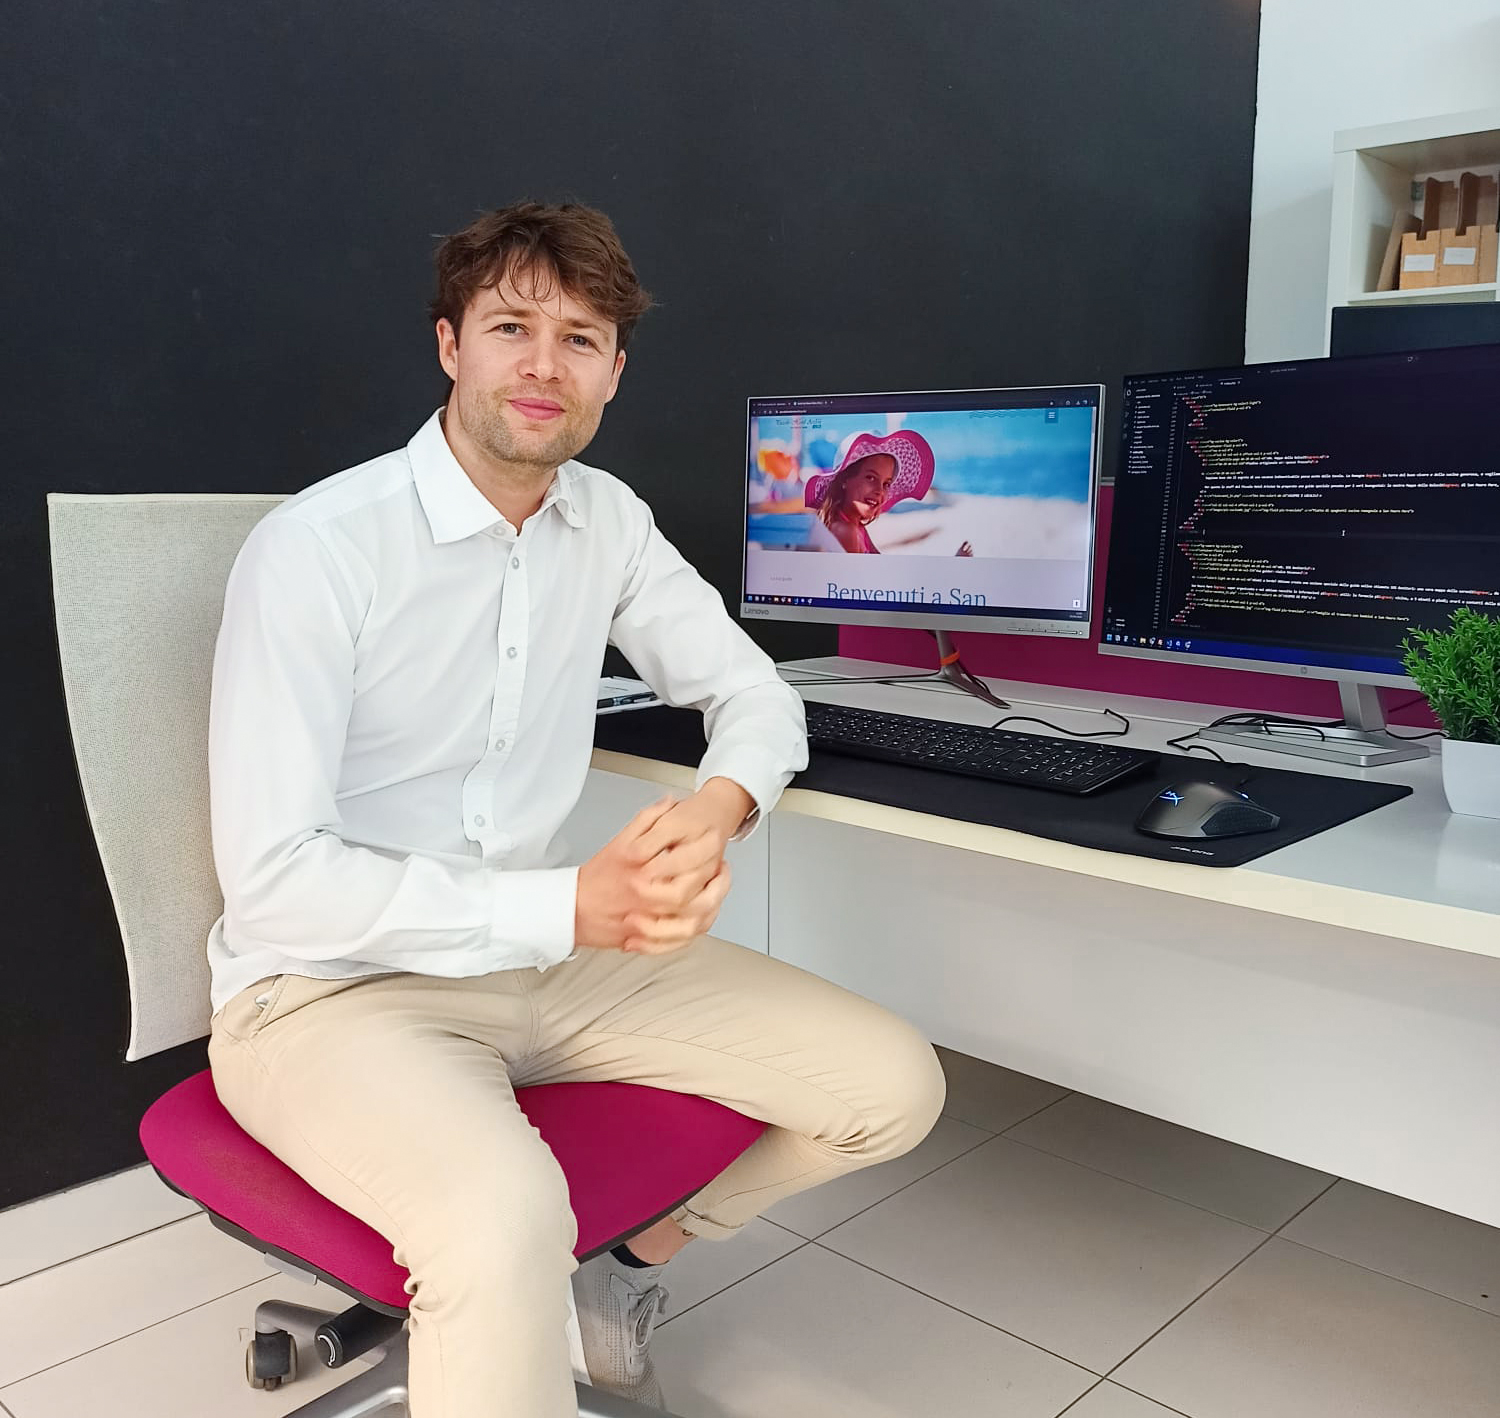
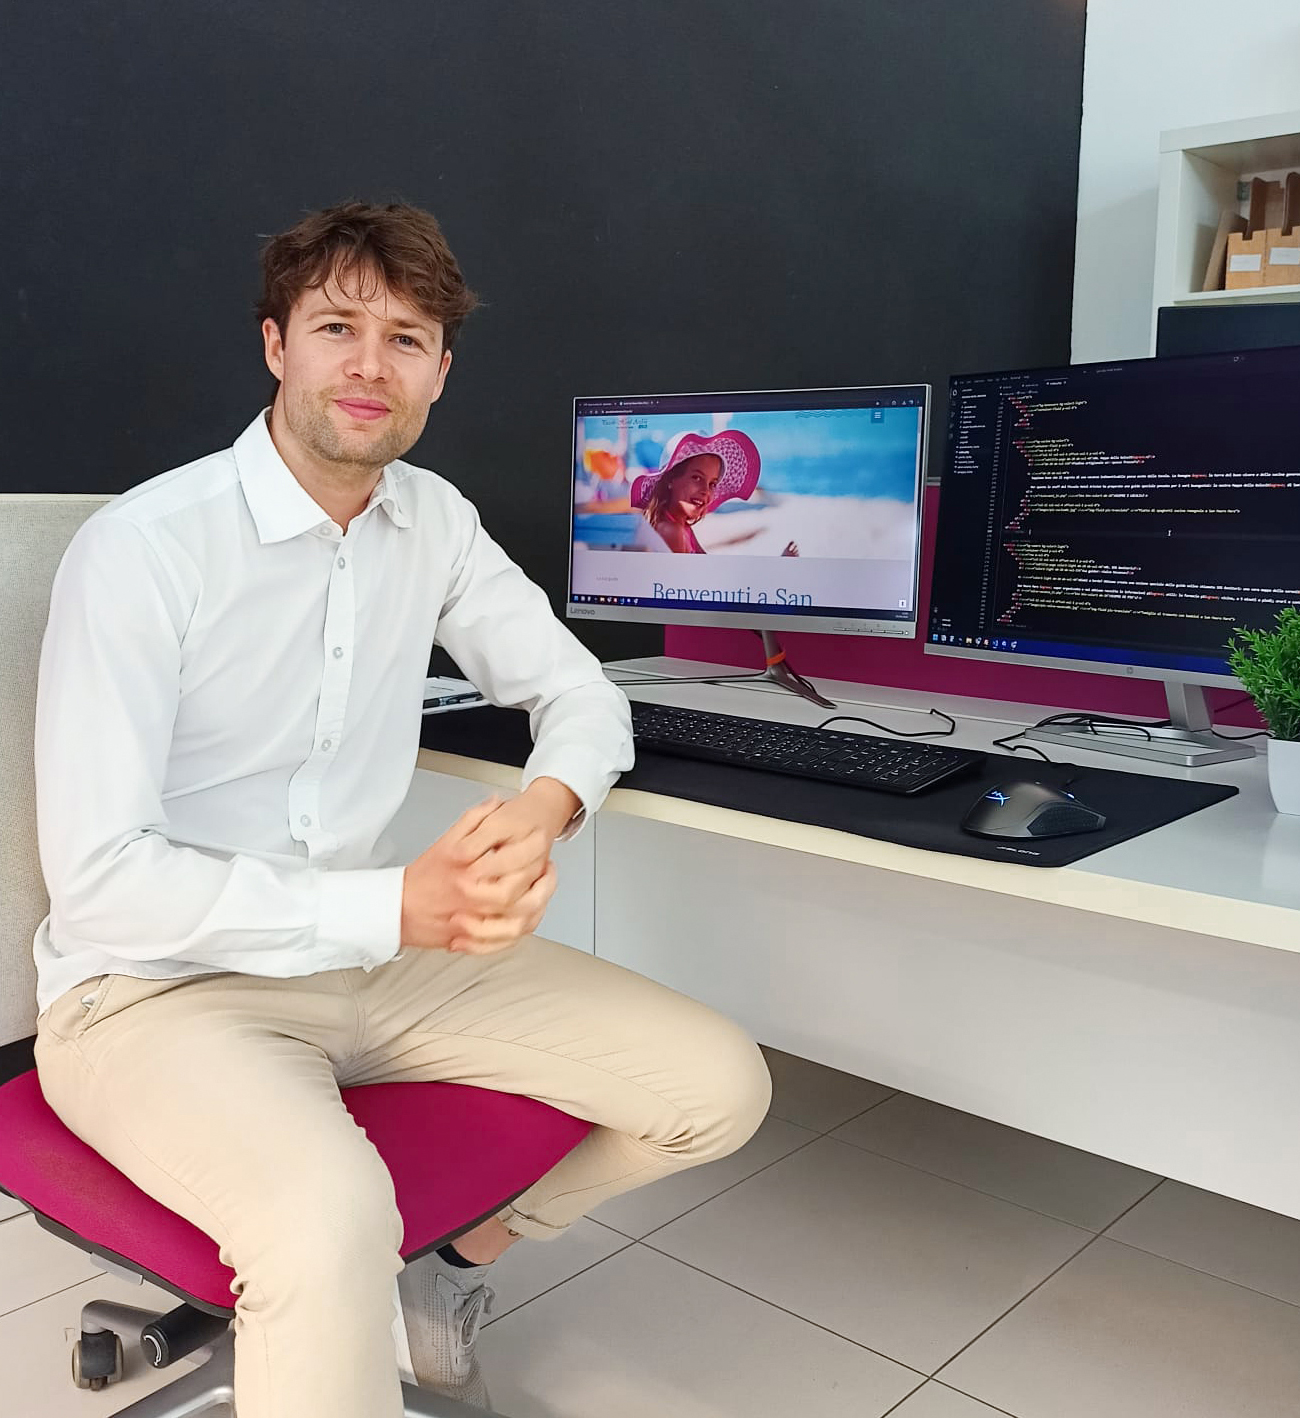
hero + sezioni + mobile

diff --git a/css/style.css b/css/style.css
@@ -10,27 +10,39 @@
 }
 
 /* HERO ***************************/
-#hero{height:100vh;background-image:url(../images/hero.jpg);background-size:cover;background-position:top left;background-repeat:no-repeat;padding: clamp(40px, 4vw, 300px)}
-#hero .container{display: flex;flex-direction: row;height: 100%;justify-content: end;align-items: end;}
+#hero .container{display:flex;flex-direction:row;height:100%;justify-content:end;align-items:end;position:relative}
 #hero .text{max-width:540px;margin:0 0 1.5rem;color: var(--white)}
 #hero .list{list-style:none;padding:0 1rem;margin:0;font-family:'Poppins',sans-serif;letter-spacing:1px}
 #hero .list li{position:relative;padding-left:42px;margin-bottom:18px;font-size:1rem;line-height:1.5;color:var(--white)}
 #hero .list li::before{content:"";position:absolute;left:0;top:2px;width:20px;height:20px;background-image:url(../images/check.png);background-repeat:no-repeat;background-position:center;background-size:contain}
-
+@media (max-width:79.9rem){
+#hero{position:relative;overflow:hidden;background-color:var(--white)}
+#hero::before{position:absolute;z-index:0;inset:0;content:"";background-image:url(../images/bg-pattern02.png);background-size:cover;
+   background-position:bottom left;background-repeat:repeat;}
+#hero .container{padding:3rem 1rem 2.5rem}
+#hero .figure{display:grid;margin:0}
+#hero .figure img{width:100%;height:auto;margin-bottom: 1rem;}
+#hero .text{color: var(--dark)}
+#hero .list li{color:var(--dark)}
+#hero .list li::before{background-image:url(../images/check-dark.png)}
+}
+@media (min-width: 80rem) {
+#hero{height:100vh;background-image:url(../images/hero.jpg);background-size:cover;background-position:top left;background-repeat:no-repeat;padding: clamp(40px, 4vw, 300px)}
+}
 
 /* ESPERIENZA ***************************/
 #esperienza{position:relative;overflow:hidden;background-color: var(--dark)}
 #esperienza,#esperienza::before,#esperienza::after,#esperienza *,#esperienza ::before,#esperienza ::after{box-sizing:border-box}
-#esperienza::before{position:absolute;z-index:0;inset:0;content:"";background-image:url(../images/bg-pattern01.png);background-size:contain;
-   background-position:top left;background-repeat:repeat;width: 100%;}
-#esperienza .container{display:grid;position:relative;width:100%;margin-inline:auto;padding:var(--sectionPadding);gap:1rem;align-items:center}
+#esperienza::before{position:absolute;z-index:0;inset:0;content:"";background-image:url(../images/bg-pattern01.png);background-size:720px auto;
+   background-position:bottom left;background-repeat:repeat;}
+#esperienza .container{display:grid;position:relative;width:100%;max-width:90rem;margin-inline:auto;padding:clamp(3.75rem, 9vw, 15rem) 1rem clamp(2.5rem, 6.82vw, 10rem);gap:1rem;align-items:center}
 #esperienza .content,.figure{min-width:0}
 #esperienza .content{width:100%}
-#esperienza .figure{display:grid;margin:0;gap:var(--esperienza-space-3)}
+#esperienza .figure{display:grid;margin:0}
 #esperienza .title{max-width:17ch;overflow-wrap:anywhere;color:var(--white);line-height:.98;text-wrap:balance}
-#esperienza .subtitle{max-width:44rem;line-height:1.5;text-wrap:pretty}
-#esperienza .text{max-width:40rem;margin-top:var(--esperienza-space-4);color:var(--white)}
-#esperienza .image{display:block;width:100%;height:100%;object-fit:cover;object-position:center;transition:transform var(--esperienza-motion-medium) var(--esperienza-easing)}
+#esperienza .subtitle{max-width:44rem;line-height:1.5;text-wrap:pretty;color: var(--white);font-weight: 20;}
+#esperienza .text{max-width:40rem;margin-top:1.5rem;color:var(--white)}
+#esperienza .image{display:block;width:100%;height:100%}
 @media (min-width: 56rem) {
 #esperienza .container{grid-template-columns:minmax(0,1.05fr) minmax(20rem,0.95fr)}
 #esperienza .content{width:100%}
@@ -38,51 +50,43 @@
 @media (min-width: 80rem) {
 #esperienza .container{grid-template-columns:minmax(0,1.1fr) minmax(26rem,0.9fr)}
 }
-
-/* HERO ***************************/
-/* #hero{background:linear-gradient(90deg,#e9942c3c 0%,transparent 90%);}
-#hero .container{min-height: 100vh;position:relative;display:grid;grid-template-columns:minmax(0,1fr) minmax(0,1fr);align-items:center;gap:clamp(2rem,4vw,4rem);width:min(92vw,100rem);margin:0 auto;padding:clamp(5.5rem,12vw,7.5rem) 0 clamp(3rem,6vw,5rem)}
-#hero figure{margin:0;min-width:0}
-#hero img{display:block;width:95%;height:auto}
-#hero .hero-content{min-width:0}
-#hero .title{max-width:100%;overflow-wrap:anywhere}
-#hero .list{list-style:none;padding:0 1rem;margin:0;font-family:'Poppins',sans-serif;letter-spacing:1px}
-#hero .list li{position:relative;padding-left:42px;margin-bottom:18px;font-size:clamp(1rem,2.2vw,1.125rem);line-height:1.5;color:var(--dark)}
-#hero .list li::before{content:"";position:absolute;left:0;top:4px;width:24px;height:24px;background-image:url(../images/check.png);background-repeat:no-repeat;background-position:center;background-size:contain}
-#hero .text{max-width:560px;margin:0 0 1.5rem}
-@media (max-width:1024px){
-   #hero .container{min-height:100%}
-#hero .title{letter-spacing:6px}
-#hero .subtitle{letter-spacing:6px}
-}
+/* ESPERIENZA - decorazioni */
+#esperienza .esperienza-deco{width: 100%;margin: auto;position: relative;display: flex;flex-direction: column;align-items: center;justify-content: center}
+#esperienza .esperienza-deco div{font-size: min(.5vw, 0.7rem);width: 100%;height: 0em}
+#esperienza .esperienza-deco div img{position:absolute;width:18%;max-width:34em;height:auto;right:-22px;z-index:0;top:-21px}
 @media (max-width:768px){
-#hero .container{grid-template-columns:1fr;justify-items:center;gap:2rem;width:min(100% - 2rem,37.5rem);padding:5.5rem 0 3rem;text-align:center}
-#hero img{max-width:22rem;margin:0 auto}
-#hero .hero-content{width:100%}
-#hero .topper,#hero .title,#hero .subtitle{margin-left:auto;margin-right:auto}
-#hero .title{letter-spacing:4px;font-size:clamp(1.75rem,8vw,2.75rem)}
-#hero .subtitle{letter-spacing:4px}
-#hero .text{max-width:100%;margin:0 auto 1.5rem}
-#hero .list{display:inline-block;text-align:left;padding:0;margin:0 auto}
-#hero .list li{font-size:1rem;margin-bottom:14px}
+   #esperienza .esperienza-deco div img{right:0;top:0}
 }
-@media (max-width:480px){
-#hero .container{width:min(100% - 1.5rem,100%);padding:5rem 0 2.5rem;gap:1.5rem}
-#hero .title{letter-spacing:2px}
-#hero .subtitle{letter-spacing:3px;margin:12px 0}
-#hero .list li{padding-left:36px}
-#hero .list li::before{width:20px;height:20px;top:3px}
-} */
-/* HERO - decorazioni */
-/* #hero .hero-deco01{width: 100%;margin: auto;position: relative;display: flex;flex-direction: column;align-items: center;justify-content: center}
-#hero .hero-deco01 div{font-size: min(.5vw, 0.7rem);width: 100%;height: 0em}
-#hero .hero-deco01 div img{position: absolute;width:11%;max-width:17em;height: auto;transform: translateY(100%);left:80px;z-index:0}
-#hero .hero-deco02{width: 100%;margin: auto;position: relative;display: flex;flex-direction: column;align-items: center;justify-content: center}
-#hero .hero-deco02 div{font-size: min(.5vw, 0.7rem);width: 100%;height: 0em}
-#hero .hero-deco02 div img{position: absolute;width:11%;max-width:27em;height: auto;transform: translateY(30%);right:80px;z-index:0}
-#hero .sicilia{width: 100%;margin: auto;position: relative;display: flex;flex-direction: column;align-items: center;justify-content: center}
-#hero .sicilia div{font-size: min(.5vw, 0.7rem);width: 100%;height: 0em}
-#hero .sicilia div img{position: absolute;width:13%;max-width:35em;height: auto;transform: translateY(-30%);bottom: 0;right:80px;z-index:0} */
+
+/* COMPETENZE ***************************/
+#competenze{position:relative;overflow:hidden;background-color: var(--dark)}
+#competenze,#competenze::before,#competenze::after,#competenze *,#competenze ::before,#competenze ::after{box-sizing:border-box}
+#competenze::before{position:absolute;z-index:0;inset:0;content:"";background-image:url(../images/bg-pattern01.png);background-size:720px auto;
+   background-position:top left;background-repeat:repeat;}
+#competenze .container{display:grid;position:relative;width:100%;max-width:90rem;margin-inline:auto;padding:clamp(2rem, 7.82vw, 7rem) 1rem clamp(2.5rem, 10vw, 15rem);gap:1rem;align-items:center;z-index:2}
+#competenze .content,.figure{min-width:0}
+#competenze .content{width:100%}
+#competenze .figure{display:grid;margin:0}
+#competenze .title{max-width:17ch;overflow-wrap:anywhere;color:var(--white);line-height:.98;text-wrap:balance}
+#competenze .subtitle{max-width:44rem;line-height:1.5;text-wrap:pretty;color: var(--white);font-weight: 20;}
+#competenze .categoria{margin-top:1rem;color:var(--primary);font-weight:700;font-size:18px;letter-spacing:5px}
+#competenze .list{list-style:none;padding:0 .5rem;margin:0;font-family:'Poppins',sans-serif;letter-spacing:1px} #competenze .list li{position:relative;padding-left:32px;margin-bottom:18px;font-size:1rem;line-height:1.5;color:var(--white)} #competenze .list li::before{content:"";position:absolute;left:0;top:2px;width:20px;height:20px;background-image:url(../images/check.png);background-repeat:no-repeat;background-position:center;background-size:contain}
+#competenze .image{display:block;width:100%;height:auto}
+@media (min-width: 56rem) {
+#competenze .container{grid-template-columns:minmax(0,1.05fr) minmax(20rem,0.95fr)}
+#competenze .content{width:100%}
+}
+@media (min-width: 80rem) {
+#competenze .container{grid-template-columns:minmax(0,1.1fr) minmax(26rem,0.9fr)}
+#competenze .image{width:90%}
+#competenze .list{list-style:none;padding:0 .5rem;margin:0;font-family:'Poppins',sans-serif;letter-spacing:1px;display:grid;grid-template-columns:repeat(2,max-content);gap:12px 28px;align-items:center}
+#competenze .list li{position:relative;padding-left:32px;margin-bottom:0;font-size:1rem;line-height:1.5;color:var(--white)}
+#competenze .list li::before{content:"";position:absolute;left:0;top:2px;width:20px;height:20px;background-image:url(../images/check.png);background-repeat:no-repeat;background-position:center;background-size:contain}
+}
+/* COMPETENZE - decorazioni */
+#competenze .competenze-deco{width: 100%;margin: auto;position: relative;display: flex;flex-direction: column;align-items: center;justify-content: center}
+#competenze .competenze-deco div{font-size: min(.5vw, 0.7rem);width: 100%;height: 0em}
+#competenze .competenze-deco div img{position:absolute;width:18%;max-width:34em;height:auto;left:2%;z-index:0;bottom:20px}
 
 
 /* CAROUSEL ********************************/

diff --git a/index.html b/index.html
@@ -31,6 +31,9 @@
       <section id="hero">
          <div class="container">
             <div class="content">
+               <figure class="figure d-lg-none d-block">
+                  <img class="image" src="images/hero-m.jpg" width="1200" height="800" alt="alex">
+               </figure>
                <p class="text">
                   Realizzo siti web moderni, veloci e responsive senza Wordpress o costruttori, scritti 100% a mano.<br><br>
                   Il mio pane quotidiano sono:
@@ -47,10 +50,18 @@
       </section>
 
       <section id="esperienza">
+         <div class="esperienza-deco">
+            <div>
+               <img src="images/decorazione01.png" alt="" aria-hidden="true">
+            </div>
+         </div>
          <div class="container">
             <div class="content">
                <span class="topper">Emilia Romagna</span>
                <h2 class="title">HO LAVORATO<br>PER YYKK</h2>
+               <figure class="figure d-lg-none d-block">
+                  <img class="image" src="images/alex01.png" width="1200" height="800" alt="cena estiva del team" decoding="async">
+               </figure>
                <h6 class="subtitle">il mio percorso</h6>
                <p class="text">
                   Ho maturato un'esperienza professionale come Front-end Web Developer presso YYKK a Cesenatico (Emilia Romagna) 
@@ -63,50 +74,63 @@
                   riviera curando la presenza online di quete strutture.
                </p>
             </div>
-            <figure class="figure">
-               <img class="image" src="images/alex01.png" width="1200" height="900" alt="cena estiva del team" decoding="async">
+            <figure class="figure d-lg-block d-none">
+               <img class="image" src="images/alex01.png" width="1200" height="800" alt="cena estiva del team" decoding="async">
             </figure>
          </div>
       </section>
 
-      <!-- <section id="hero">
-         <div class="hero-deco01">
-            <div>
-               <img src="images/hero-deco01.png" alt="" aria-hidden="true">
-            </div>
-         </div>
-         <div class="hero-deco02">
-            <div>
-               <img src="images/hero-deco02.png" alt="" aria-hidden="true">
-            </div>
-         </div>
+      <section id="competenze">
          <div class="container">
-            <figure>
-               <img src="images/pic-alex01.png" alt="Alexander Beery, Front-end Web Developer">
+            <figure class="figure d-lg-block d-none">
+               <img class="image" src="images/alex02.jpg" width="1200" height="900" alt="cena estiva del team" decoding="async">
             </figure>
-            <div class="hero-content">
-               <span class="topper">Web Developer</span>
-               <h2 class="title">Alexander<br>Beery</h2>
-               <h6 class="subtitle">front end</h6>
-               <p class="text">
-                  Realizzo siti web moderni, veloci e responsive senza Wordpress o costruttori, scritti 100% a mano.<br><br>
-                  Il mio pane quotidiano sono:
-               </p>
+            <div class="content">
+               <span class="topper">Skills</span>
+               <h2 class="title">QUELLO CHE MI <br class="d-lg-block d-none">RIESCE MEGLIO</h2>
+               <figure class="figure d-lg-none d-block">
+                  <img class="image" src="images/alex02.jpg" width="1200" height="900" alt="cena estiva del team" decoding="async">
+               </figure>
+               <h6 class="subtitle">competenze</h6>
+               <p class="categoria">FRONT-END</p>
                <ul class="list">
                   <li>HTML</li>
                   <li>CSS</li>
                   <li>JAVASCRIPT</li>
+                  <li>REACT (BASE)</li>
                   <li>BOOTSTRAP</li>
                   <li>PHOTOSHOP</li>
                </ul>
+               <p class="categoria">PROGRAMMAZIONE</p>
+               <ul class="list">
+                  <li>PYTHON (BASE)</li>
+                  <li>PHP (BASE)</li>
+               </ul>
+               <p class="categoria">SKILLS</p>
+               <ul class="list">
+                  <li>DESIGN</li>
+                  <li>SEO</li>
+               </ul>
+               <p class="categoria">AI TOOLS</p>
+               <ul class="list">
+                  <li>CURSOR</li>
+                  <li>CODEX</li>
+                  <li>CHATGPT</li>
+               </ul>
+               <p class="categoria">LINGUE</p>
+               <ul class="list">
+                  <li>ITALIANO (MADRELINGUA)</li>
+                  <li>INGLESE (AVANZATO)</li>
+               </ul>
             </div>
          </div>
-         <div class="sicilia">
+         <div class="competenze-deco d-none d-lg-flex">
             <div>
-               <img src="images/sicilia.png" alt="" aria-hidden="true">
+               <img src="images/decorazione02.png" alt="" aria-hidden="true">
             </div>
          </div>
-      </section> -->
+      </section>
+
 
       <section>
          <div class="carousel-wrapper">

diff --git a/css/globals.css b/css/globals.css
@@ -19,7 +19,7 @@ body {margin:0;padding:0; font-family:'Poppins',sans-serif;overflow-x:hidden}
     --headerFontSize: clamp(2rem, 8vw, 4rem);
     --subtitleFontSize: clamp(.9rem, 3vw, 1.1rem);
     --bodyFontSize: 1rem;
-    --sectionPadding: clamp(3.75rem, 7.82vw, 6.25rem) 1rem clamp(2.5rem, 6.82vw, 6.25rem);
+    --sectionPadding: clamp(3.75rem, 7.82vw, 10rem) 1rem clamp(2.5rem, 6.82vw, 10rem);
 }
 
 /* TITOLI ****************************/
@@ -27,7 +27,7 @@ p{font-family:'Poppins',sans-serif;letter-spacing:1px}
 .topper{font-size:var(--topperFontSize);font-family:'Antigua Presidente', sans-serif;text-transform:capitalize;color:var(--primary);
     margin-bottom:.95rem;width:fit-content;}
 .title{font-family:'Franklin Gothic';font-size:var(--headerFontSize);line-height:1.2em;max-width:45rem;margin:0 0 1rem;
-    color:var(--dark);text-transform:uppercase;letter-spacing:10px}
+    color:var(--dark);text-transform:uppercase;letter-spacing:10px;font-style: italic}
 .subtitle{font-family:'Poppins',sans-serif;font-size:var(--subtitleFontSize);text-transform: uppercase;color: var(--dark);font-weight:100;letter-spacing: 10px;margin: 20px 0;}
 .text{font-size:var(--bodyFontSize);line-height:1.5em;max-width:40.625rem;color:var(--dark)}
 .primary{color:var(--primary)!important}
